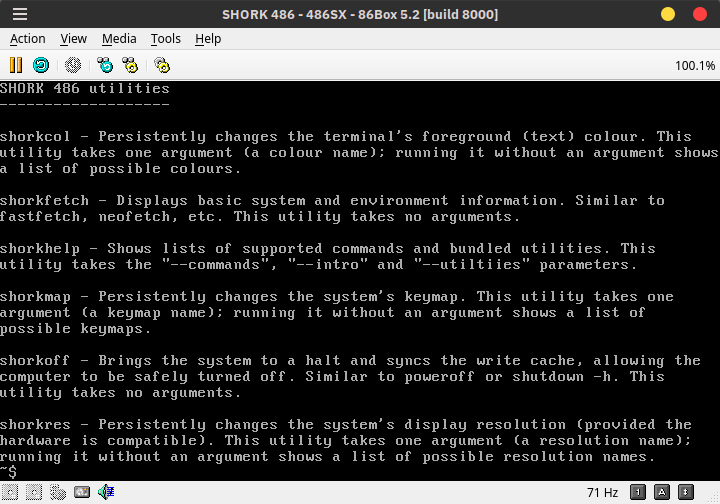
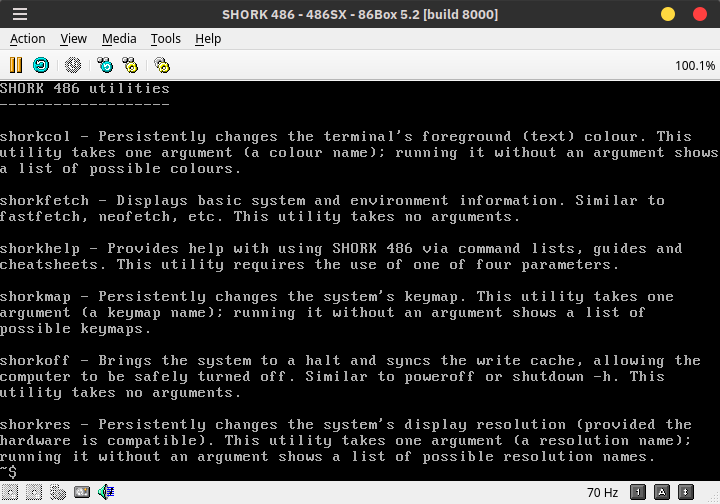
Added Emacs (Mg) client
* Mg is now compiled as our Emacs-style editor client!
* shorkhelp now supports the --emacs parameter, which will print an Emacs (Mg) cheatsheet.

Changed region(s): [[0.0, 0.4762, 0.9472, 0.5357]]

diff --git a/README.md b/README.md
@@ -2,7 +2,7 @@
 
 A minimal Linux distribution originally based on [FLOPPINUX's](https://github.com/w84death/floppinux) build instructions, but developed into something more automated and tailored for my usage. The aim is to produce an operating system that is very lean but functional for PCs with 486SX-class or better processors, often with my '90s IBM ThinkPads in mind. Whilst FLOPPINUX and [Action Retro's video on it](https://www.youtube.com/watch?v=SiHZbnFrHOY) provided a great basis to start with and inspired me, SHORK 486 does not offer a floppy diskette image. A raw disk drive image is built instead, as my scope includes more utilities and functionality.
 
-A complete SHORK 486 build aims to take up no more than ~75MiB inside the disk. For that size, a complete SHORK 486 build offers many typical Unix/Linux commands, an FTP, SCP and SSH client, a Git source control client, the nano and vi editors, basic ISA, PCI and PCMCIA NIC support, supports most major keyboard language layouts, and has a cute ASCII shark welcome screen! With 'aggressive' use of the build script skip parameters to skip building bundled utilities, this can be brought down to under ~10MiB whilst still including the typical commands as before, the vi editor, and basic networking support.
+A complete SHORK 486 build aims to take up no more than ~75MiB inside the disk. For that size, a complete SHORK 486 build offers many typical Unix/Linux commands, an FTP, SCP and SSH client, a Git source control client, the Mg (Emacs-style), nano and vi editors, basic ISA, PCI and PCMCIA NIC support, supports most major keyboard language layouts, and has a cute ASCII shark welcome screen! With 'aggressive' use of the build script skip parameters to skip building bundled utilities, this can be brought down to under ~5MiB whilst still including the typical commands as before, the vi editor, and basic networking support.
 
 <img alt="A screenshot of SHORK 486 running on an 86Box virtual machine after a cold boot" src="screenshots/cold_boot.png" width="512px">
 
@@ -41,16 +41,21 @@ It is recommended to move or copy the images out of this directory before extens
 ### Included software
 
 * ftp (FTP client, tnftp)
+* emacs (text editor, [Mg](https://github.com/troglobit/mg))
 * git (Git source control client)
 * nano (text editor)
-* scp (SCP client, Dropbear)
-* ssh (SSH client, Dropbear)
+* scp (SCP client, [Dropbear](https://github.com/mkj/dropbear))
+* ssh (SSH client, [Dropbear](https://github.com/mkj/dropbear))
 
 ### Custom utilities 
 
 * **shorkcol** - Persistently changes the terminal's foreground (text) colour. Takes one argument (a colour name); running it without an argument shows a list of possible colours.
 * **shorkfetch** - Displays basic system and environment information. Similar to fastfetch, neofetch, etc. Takes no arguments.
-* **shorkhelp** - Shows lists of supported commands and bundled utilities. Takes the `--shorkutils` parameter to show this SHORK 486 utilities explanation.
+* **shorkhelp** - Provides help with using SHORK 486 via command lists, guides and cheatsheets. Requires one of four parameters:
+    * `--commands`: Shows a command list including core commands and utilities, SHORK 486 utilities, bundled software, and supported Git commands.
+    * `--emacs`: Shows an Emacs (Mg) cheatsheet.
+    * `--intro`: Shows an introductory paragraph for SHORK 486 and a simple getting started guide.
+    * `--utilities`: Shows a list of SHORK 486 utilities with a brief explanation of what they do.
 * **shorkmap** - Persistently changes the system's keyboard layout (keymap). Takes one argument (a keymap name); running it without an argument shows a list of possible keymaps.
 * **shorkoff** - Brings the system to a halt and syncs the write cache, allowing the computer to be safely turned off. Similar to `poweroff` or `shutdown -h`. Takes no arguments.
 * **shorkres** - Persistently changes the system's display resolution (provided the hardware is compatible). Takes one argument (a resolution name); running it without an argument shows a list of possible resolution names.
@@ -82,8 +87,8 @@ It is recommended to move or copy the images out of this directory before extens
 
     * **Is Debian** (`--is-debian`): can be used skip the host Linux distribution selection prompt and the build script will assume it is running on a Debian-based system.
 
-    * **Minimal** (`--minimal`): can be used to skip building and including all non-essential features, producing a sub-10MiB but working SHORK 486 system for IDE-based hosts.
-        * This is like using the "no boot menu", "skip Dropbear", "skip Git", "skip keymaps", "skip nano", "skip pci.ids" and "skip tnftp" parameters together.
+    * **Minimal** (`--minimal`): can be used to skip building and including all non-essential features, producing a sub-5MiB but working SHORK 486 system for IDE-based hosts.
+        * This is like using the "no boot menu", "skip Dropbear", "skip Emacs", "skip Git", "skip keymaps", "skip nano", "skip pci.ids" and "skip tnftp" parameters together.
 
     * **No boot menu** (`--no-menu`): can be used to remove SHORK 486's boot menu.
         * This will save ~512KiB to the boot file system. SHORK 486 will no longer provide the option to boot in a debug/verbose mode.
@@ -102,6 +107,10 @@ It is recommended to move or copy the images out of this directory before extens
         * This will save ~355KiB and 3 files on the root file system. SHORK 486 will lose SCP and SSH capabilities.
         * This does nothing if the "skip kernel" or "skip BusyBox" parameters are also used.
 
+    * **Skip Emacs** (`--skip-emacs`): can be used to skip downloading and compiling Mg ("Micro (GNU) Emacs"-like text editor).
+        * This will save ~329KiB and 3 files on the root file system. `vi` (always) or nano (can also be removed) are available are alternative editors.
+        * This does nothing if the "skip kernel" or "skip BusyBox" parameters are also used.
+
     * **Skip Git** (`--skip-git`): can be used to skip downloading and compiling Git and its prerequisites (zlib, OpenSSL and curl).
         * This will save ~19MiB and 192 files on the root file system. SHORK 486 will lose its git client.
         * This does nothing if the "skip kernel" or "skip BusyBox" parameters are also used.
@@ -111,7 +120,7 @@ It is recommended to move or copy the images out of this directory before extens
         * This does nothing if the "skip kernel" or "skip BusyBox" parameters are also used.
 
     * **Skip nano** (`--skip-nano`): can be used to skip downloading and compiling nano.
-        * This will save ~1MiB and 60 files on the root file system. `vi` is included with BusyBox and can be used if you wish to remove nano.
+        * This will save ~1MiB and 58 files on the root file system. `vi` (always) or Mg (can also be removed) are available are alternative editors.
         * This does nothing if the "skip kernel" or "skip BusyBox" parameters are also used.
 
     * **Skip pci.ids** (`--skip-pciids`): can be used to skip building and including a `pci.ids` file.
